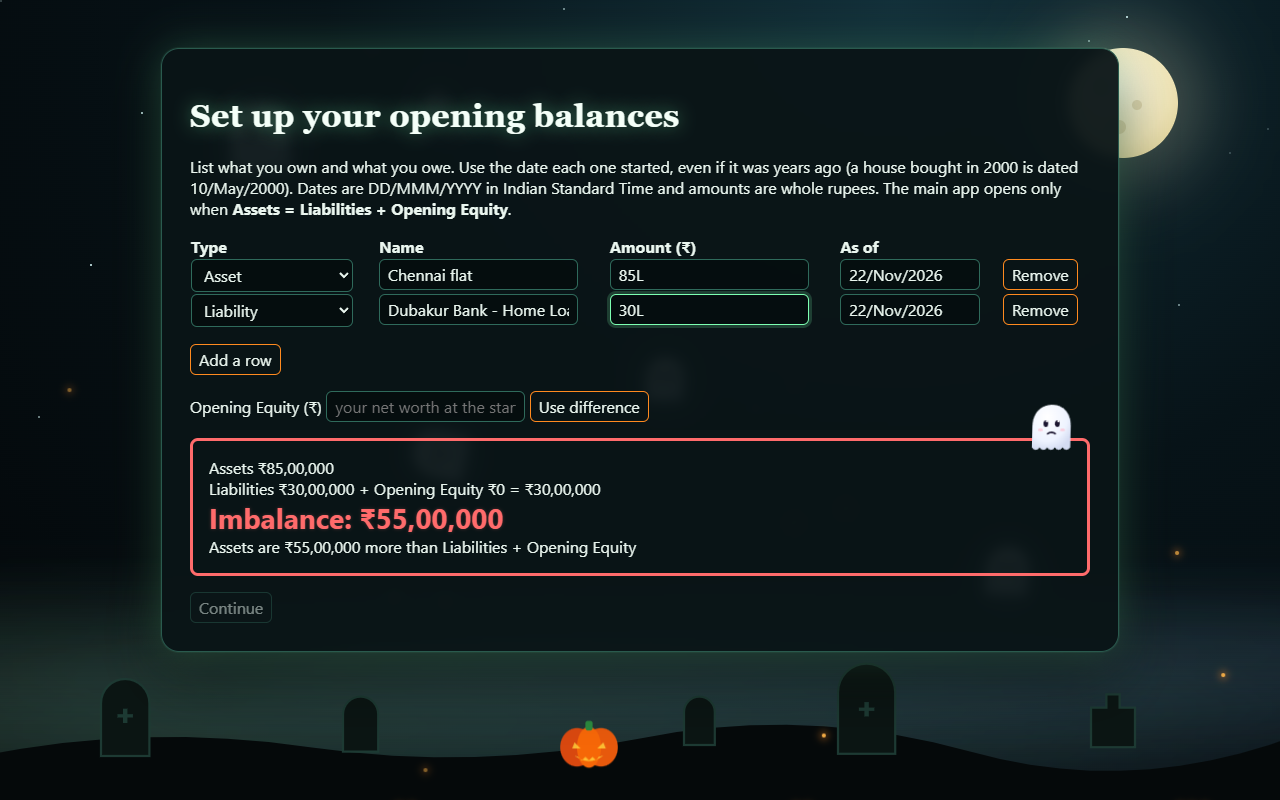
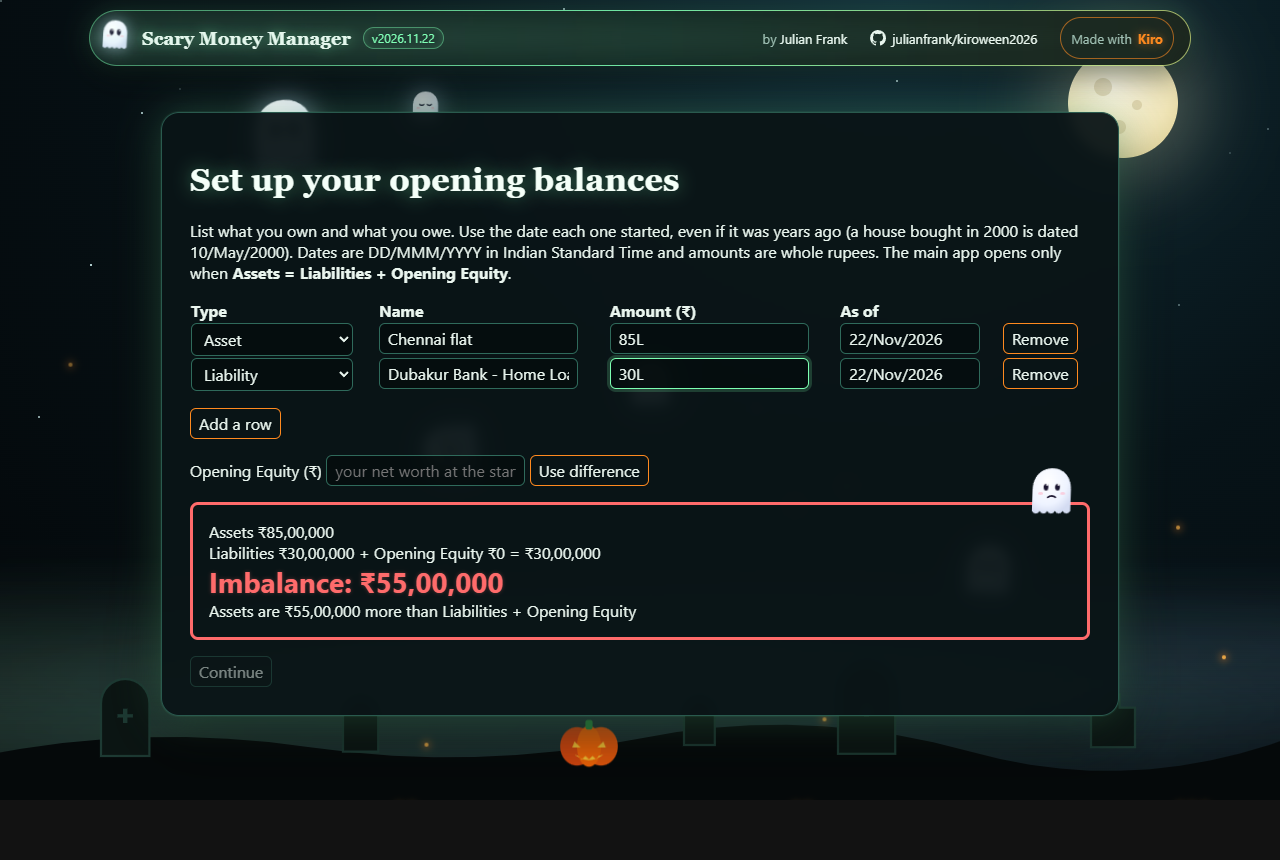
feat(scary-money-manager): add site header with version, credits, and animated decorations (Task 15)
- Add fixed floating header pill with title, version, credits, and GitHub link
- Display app version from package.json injected as __APP_VERSION__ via vite.config
- Include animated decorations: travelling rim light, drifting wisp, and bobbing ghost
- Implement responsive layout wrapping to two rows below 520px viewport width
- Hide main app h1 to prevent duplicate title display
- Add SiteHeader component with crypt-themed styling and animations
- Create header.css with theme-specific decoration styles
- Declare global __APP_VERSION__ type in globals.d.ts
- Add header component tests to test suite (177 tests now)
- Update e2e screenshot generation and smoke tests
- Update AGENTS.md documentation with header implementation details

Changed region(s): [[0.0, 0.0, 1.0, 0.9688], [0.9375, 0.75, 0.9688, 0.7812]]

diff --git a/src/theme/header.css b/src/theme/header.css
@@ -1,0 +1,180 @@
+/* The fixed floating header. Always crypt-coloured (its own variables), so it frames every screen the
+   same way whatever theme the page is in. Animations always on, like the entry screens. */
+
+.site-header {
+  --h-bg: rgba(8, 18, 20, 0.88);
+  --h-text: #eaf6ef;
+  --h-muted: #9fbfb3;
+  --h-green: #7dffb2;
+  --h-orange: #ff8a1f;
+  position: fixed;
+  top: 10px;
+  left: 50%;
+  z-index: 50;
+  width: min(1100px, calc(100% - 20px));
+  transform: translateX(-50%);
+  border-radius: 999px;
+  padding: 1px;
+  /* A thin rim of light that travels round the pill. */
+  background: linear-gradient(90deg, rgba(125, 255, 178, 0.15), rgba(125, 255, 178, 0.9), rgba(255, 138, 31, 0.8), rgba(125, 255, 178, 0.15)) 0 0 / 300% 100%;
+  box-shadow: 0 10px 30px rgba(0, 0, 0, 0.45), 0 0 24px rgba(125, 255, 178, 0.18);
+  animation: header-drop 0.7s cubic-bezier(0.2, 0.8, 0.2, 1) both, rim-travel 7s linear infinite;
+  color: var(--h-text);
+  font-family: system-ui, 'Segoe UI', sans-serif;
+}
+.site-header-inner {
+  display: flex;
+  align-items: center;
+  gap: 12px;
+  min-height: 46px;
+  padding: 4px 16px 4px 10px;
+  border-radius: 999px;
+  background: var(--h-bg);
+  backdrop-filter: blur(10px);
+  overflow: hidden;
+  position: relative;
+}
+/* A faint wisp of fog that drifts through the header. */
+.site-header-inner::after {
+  content: '';
+  position: absolute;
+  inset: -20px -40%;
+  background: radial-gradient(ellipse at 20% 50%, rgba(160, 255, 210, 0.1), transparent 45%);
+  animation: wisp 9s ease-in-out infinite alternate;
+  pointer-events: none;
+}
+.site-header-ghost {
+  display: inline-flex;
+  animation: header-ghost 3s ease-in-out infinite;
+}
+.site-header-ghost .kiro-ghost {
+  filter: drop-shadow(0 0 8px rgba(200, 230, 255, 0.6));
+}
+.site-title {
+  font-family: Georgia, 'Palatino Linotype', 'Book Antiqua', serif;
+  font-weight: 700;
+  font-size: 18px;
+  letter-spacing: 0.01em;
+  white-space: nowrap;
+  text-shadow: 0 0 12px rgba(125, 255, 178, 0.45);
+  animation: title-flicker 6s infinite;
+}
+.site-version {
+  font-size: 12px;
+  font-variant-numeric: tabular-nums;
+  padding: 2px 8px;
+  border-radius: 999px;
+  color: var(--h-green);
+  border: 1px solid rgba(125, 255, 178, 0.45);
+  box-shadow: inset 0 0 8px rgba(125, 255, 178, 0.15);
+}
+.site-spacer {
+  flex: 1;
+}
+.site-label {
+  color: var(--h-muted);
+}
+.site-author {
+  font-size: 13px;
+  white-space: nowrap;
+}
+.site-link {
+  display: inline-flex;
+  align-items: center;
+  gap: 6px;
+  min-height: 32px;
+  padding: 4px 10px;
+  border-radius: 999px;
+  font-size: 13px;
+  color: var(--h-text);
+  text-decoration: none;
+  border: 1px solid transparent;
+  white-space: nowrap;
+  transition: transform 0.15s ease, border-color 0.2s, box-shadow 0.2s;
+}
+.site-link:hover {
+  transform: translateY(-1px);
+  border-color: rgba(125, 255, 178, 0.5);
+  box-shadow: 0 0 14px rgba(125, 255, 178, 0.3);
+}
+.site-link:active {
+  transform: translateY(1px) scale(0.98);
+}
+.site-link:focus-visible {
+  outline: 2px solid var(--h-green);
+  outline-offset: 2px;
+}
+.site-kiro {
+  border-color: rgba(255, 138, 31, 0.6);
+}
+.site-kiro b {
+  color: var(--h-orange);
+  text-shadow: 0 0 10px rgba(255, 138, 31, 0.6);
+}
+.site-kiro:hover {
+  border-color: var(--h-orange);
+  box-shadow: 0 0 16px rgba(255, 138, 31, 0.45);
+}
+
+/* Room under the header for every screen. */
+.app-frame {
+  padding-top: 64px;
+}
+
+@media (max-width: 760px) {
+  .site-author,
+  .site-link-text {
+    display: none;
+  }
+  .site-title {
+    font-size: 15px;
+  }
+  .site-header-inner {
+    gap: 8px;
+    padding-right: 8px;
+  }
+}
+@media (max-width: 520px) {
+  .site-header {
+    border-radius: 20px;
+  }
+  .site-header-inner {
+    flex-wrap: wrap;
+    row-gap: 2px;
+    border-radius: 19px;
+    padding: 6px 10px;
+  }
+  .site-spacer {
+    flex-basis: 100%;
+    height: 0;
+  }
+  .site-author {
+    display: inline;
+    font-size: 12px;
+  }
+  .app-frame {
+    padding-top: 104px;
+  }
+}
+
+@keyframes header-drop {
+  from { opacity: 0; transform: translate(-50%, -24px); }
+  to { opacity: 1; transform: translate(-50%, 0); }
+}
+@keyframes rim-travel {
+  to { background-position: 300% 0; }
+}
+@keyframes wisp {
+  from { transform: translateX(-10%); }
+  to { transform: translateX(25%); }
+}
+@keyframes header-ghost {
+  0%, 100% { transform: translateY(0) rotate(-4deg); }
+  50% { transform: translateY(-4px) rotate(4deg); }
+}
+@keyframes title-flicker {
+  0%, 92%, 100% { opacity: 1; }
+  93% { opacity: 0.55; }
+  94% { opacity: 1; }
+  96% { opacity: 0.75; }
+}

diff --git a/e2e/smoke.spec.ts b/e2e/smoke.spec.ts
@@ -52,6 +52,11 @@ async function setUp(page: Page) {
   await expect(page.getByText('There is no database in this browser yet.')).toBeVisible();
   await expect(page.locator('html')).toHaveAttribute('data-theme', 'crypt');
   await expect(page.locator('.crypt-scene .flyer')).toHaveCount(5);
+  const header = page.getByRole('banner', { name: 'About this app' });
+  await expect(header).toBeVisible();
+  await expect(header).toHaveCSS('position', 'fixed');
+  await expect(header.getByRole('link', { name: /Made with Kiro/ })).toHaveAttribute('href', 'https://kiro.dev');
+  await expect(header.getByText(/^v\d+\.\d+\.\d+/)).toBeVisible();
   await page.getByPlaceholder('Password', { exact: true }).fill('short');
   await expect(page.getByRole('button', { name: 'Start New Database' })).toHaveCount(0); // 7 characters minimum
   await page.getByPlaceholder('Password', { exact: true }).fill(PASSWORD);
@@ -68,7 +73,7 @@ async function setUp(page: Page) {
   await page.getByRole('button', { name: 'Use difference' }).click();
   await expect(page.getByText('Imbalance: ₹0')).toBeVisible();
   await page.getByRole('button', { name: 'Continue' }).click();
-  await expect(page.getByRole('heading', { name: 'Scary Money Manager' })).toBeVisible();
+  await expect(page.getByRole('navigation', { name: 'Main tabs' })).toBeVisible();
 }
 
 async function say(page: Page, tab: string, message: string) {
@@ -90,6 +95,7 @@ test('the single file runs the whole flow offline: setup, chat, theme, charts, e
 
   await setUp(page);
   await expect(page.locator('html')).toHaveAttribute('data-theme', 'light');
+  await expect(page.getByRole('banner', { name: 'About this app' })).toBeVisible(); // the header stays on the main app too
 
   // A chat entry: proposed, confirmed, saved, animated, listed with an IST DD/MMM/YYYY date.
   await say(page, 'Daily Updates', 'Paid Rs.800 for groceries yesterday');
@@ -144,7 +150,7 @@ test('the single file runs the whole flow offline: setup, chat, theme, charts, e
   await fresh.waitForTimeout(1200);
   await fresh.getByPlaceholder('Password', { exact: true }).fill(PASSWORD);
   await fresh.getByRole('button', { name: 'Open this file' }).click();
-  await expect(fresh.getByRole('heading', { name: 'Scary Money Manager' })).toBeVisible();
+  await expect(fresh.getByRole('navigation', { name: 'Main tabs' })).toBeVisible();
   await expect(fresh.locator('html')).toHaveAttribute('data-theme', 'dark');
   const destroyed = await fresh.evaluate(() => (window as unknown as { __destroyed: number }).__destroyed);
   expect(destroyed).toBeGreaterThanOrEqual(1); // the AI session was destroyed on import

diff --git a/src/ui/SiteHeader.tsx b/src/ui/SiteHeader.tsx
@@ -1,0 +1,50 @@
+import { KiroGhost } from '../theme/Crypt';
+import '../theme/header.css';
+
+export const APP_VERSION = __APP_VERSION__;
+export const AUTHOR = 'Julian Frank';
+export const REPO_URL = 'https://github.com/julianfrank/kiroween2026';
+export const KIRO_URL = 'https://kiro.dev';
+
+function GitHubMark() {
+  // The GitHub mark (Octicons "mark-github", MIT licence), in its usual single colour.
+  return (
+    <svg viewBox="0 0 16 16" width="16" height="16" aria-hidden="true" focusable="false">
+      <path
+        fill="currentColor"
+        d="M8 0C3.58 0 0 3.58 0 8c0 3.54 2.29 6.53 5.47 7.59.4.07.55-.17.55-.38 0-.19-.01-.82-.01-1.49-2.01.37-2.53-.49-2.69-.94-.09-.23-.48-.94-.82-1.13-.28-.15-.68-.52-.01-.53.63-.01 1.08.58 1.23.82.72 1.21 1.87.87 2.33.66.07-.52.28-.87.51-1.07-1.78-.2-3.64-.89-3.64-3.95 0-.87.31-1.59.82-2.15-.08-.2-.36-1.02.08-2.12 0 0 .67-.21 2.2.82.64-.18 1.32-.27 2-.27.68 0 1.36.09 2 .27 1.53-1.04 2.2-.82 2.2-.82.44 1.1.16 1.92.08 2.12.51.56.82 1.27.82 2.15 0 3.07-1.87 3.75-3.65 3.95.29.25.54.73.54 1.48 0 1.07-.01 1.93-.01 2.2 0 .21.15.46.55.38A8.013 8.013 0 0016 8c0-4.42-3.58-8-8-8z"
+      />
+    </svg>
+  );
+}
+
+/**
+ * The fixed, floating header on every screen. It always uses the crypt's colours, whatever the main app's
+ * net-worth theme is, so it reads as the frame around the whole app.
+ */
+export function SiteHeader() {
+  return (
+    <header className="site-header" aria-label="About this app">
+      <div className="site-header-inner">
+        <span className="site-header-ghost" aria-hidden="true">
+          <KiroGhost size={30} mood="happy" />
+        </span>
+        <span className="site-title">Scary Money Manager</span>
+        <span className="site-version" title="Build version from package.json">
+          v{APP_VERSION}
+        </span>
+        <span className="site-spacer" />
+        <span className="site-author">
+          <span className="site-label">by</span> {AUTHOR}
+        </span>
+        <a className="site-link" href={REPO_URL} target="_blank" rel="noopener noreferrer" aria-label="Source code on GitHub (opens in a new tab)">
+          <GitHubMark />
+          <span className="site-link-text">julianfrank/kiroween2026</span>
+        </a>
+        <a className="site-link site-kiro" href={KIRO_URL} target="_blank" rel="noopener noreferrer" aria-label="Made with Kiro (opens kiro.dev in a new tab)">
+          <span className="site-label">Made with</span> <b>Kiro</b>
+        </a>
+      </div>
+    </header>
+  );
+}

diff --git a/src/ui/header.test.tsx b/src/ui/header.test.tsx
@@ -1,0 +1,28 @@
+// @vitest-environment jsdom
+import { cleanup, render, screen, within } from '@testing-library/react';
+import { readFileSync } from 'node:fs';
+import { afterEach, describe, expect, it } from 'vitest';
+import { APP_VERSION, SiteHeader } from './SiteHeader';
+
+afterEach(cleanup);
+
+describe('site header', () => {
+  it('shows the title, the package.json version, the author and the two links', () => {
+    const { version } = JSON.parse(readFileSync('package.json', 'utf8'));
+    expect(APP_VERSION).toBe(version);
+    render(<SiteHeader />);
+    const header = screen.getByRole('banner', { name: 'About this app' });
+    expect(within(header).getByText('Scary Money Manager')).toBeTruthy();
+    expect(within(header).getByText(`v${version}`)).toBeTruthy();
+    expect(header.textContent).toContain('Julian Frank');
+
+    const github = within(header).getByRole('link', { name: /Source code on GitHub/ });
+    expect(github.getAttribute('href')).toBe('https://github.com/julianfrank/kiroween2026');
+    const kiro = within(header).getByRole('link', { name: /Made with Kiro/ });
+    expect(kiro.getAttribute('href')).toBe('https://kiro.dev');
+    for (const a of [github, kiro]) {
+      expect(a.getAttribute('target')).toBe('_blank');
+      expect(a.getAttribute('rel')).toContain('noopener');
+    }
+  });
+});

diff --git a/vite.config.ts b/vite.config.ts
@@ -1,9 +1,14 @@
+import { readFileSync } from 'node:fs';
 import { defineConfig } from 'vitest/config';
 import react from '@vitejs/plugin-react';
 import { viteSingleFile } from 'vite-plugin-singlefile';
 
+// The build version shown in the header comes from package.json.
+const { version } = JSON.parse(readFileSync(new URL('./package.json', import.meta.url), 'utf8')) as { version: string };
+
 export default defineConfig({
   base: './',
+  define: { __APP_VERSION__: JSON.stringify(version) },
   plugins: [react(), viteSingleFile()],
   test: {
     environment: 'node',

diff --git a/src/ui/AppShell.tsx b/src/ui/AppShell.tsx
@@ -69,7 +69,7 @@ export function AppShell({
     <main style={{ padding: 24, maxWidth: 960, margin: '0 auto' }}>
       <header className="app-header">
         {state === 'light' ? <Pumpkin /> : <Ghost />}
-        <h1 className="title-glow">Scary Money Manager</h1>
+        <h1 className="visually-hidden">Scary Money Manager</h1>
         <span className="state-chip" role="status" data-state={state}>
           {STATE_TEXT[state].title}: {STATE_TEXT[state].line}
         </span>

diff --git a/src/ui/Readiness.tsx b/src/ui/Readiness.tsx
@@ -29,7 +29,7 @@ export function Readiness({ state, onStart }: { state: ReadinessState; onStart: 
       <div className="sentry">
         <KiroGhost size={64} mood={trouble ? 'worried' : state.step === 'ready' ? 'cheer' : 'lantern'} />
       </div>
-      <h1>Scary Money Manager</h1>
+      <h1>Waking the on-device AI</h1>
       <p>Getting the on-device AI ready. Nothing leaves your computer.</p>
 
       {state.step === 'unsupported' && <p role="alert">{state.reason}</p>}

diff --git a/src/main.tsx b/src/main.tsx
@@ -1,10 +1,14 @@
 import { StrictMode } from 'react';
 import { createRoot } from 'react-dom/client';
 import { App } from './App';
+import { SiteHeader } from './ui/SiteHeader';
 import './theme/theme.css';
 
 createRoot(document.getElementById('root')!).render(
   <StrictMode>
-    <App />
+    <SiteHeader />
+    <div className="app-frame">
+      <App />
+    </div>
   </StrictMode>,
 );

diff --git a/src/theme/crypt.css b/src/theme/crypt.css
@@ -23,7 +23,7 @@
 
 .crypt {
   position: relative;
-  min-height: 100vh;
+  min-height: calc(100vh - 64px);
   overflow: hidden;
 }
 .crypt-content {

diff --git a/src/globals.d.ts b/src/globals.d.ts
@@ -1,0 +1,2 @@
+/** The package.json version, injected at build time by vite.config.ts. */
+declare const __APP_VERSION__: string;

diff --git a/AGENTS.md b/AGENTS.md
@@ -8,7 +8,7 @@ A single-file HTML money manager for Chrome, built for Kiroween 2026. It uses Ch
 ## Status
 - **All 12 planned tasks are built.** Task list and per-task notes: `ideas/scary-money-manager/plan/tasks.md`.
 - **Start over** (added after Task 12): `nukeStore(kv)` clears the whole store including `meta:*`. `App.onNuke` destroys the AI session first, then clears the store, removes the theme attribute, drops the vault and data (back to "Choose a password"), and renews the AI. Offered in the Data and password tab behind typing `DELETE` (`NukeForm`).`n- **Password screen** (`ui/PasswordScreen.tsx`): one shared password field, at least 7 characters (`crypto/password.ts`, also enforced by `changePassword` and `exportWithNewPassword`). It then offers Unlock (if a store exists), Upload new file (`importExportFile` with the same password) and Start New Database (repeat password, then `App.onStartNew`: destroy AI, `nukeStore`, `createVault`, renew AI). Stores made earlier with passwords under 7 characters cannot be unlocked any more; use Start New Database.`n- **Still open (needs the user, in Chrome with the real model):** the golden-sentence accuracy run. Open the app, then the "Data and password" tab > "Check the AI" > "Run the AI check", and paste the report back. No accuracy figure has been recorded yet. Record it in `research/prompt-api.md` and fix the prompt or the app for repeated failures.
-- **Checks:** `npm run build` (typecheck and single-file build, about 384 KB), `npm test` (Vitest, 176 tests including a build check), `npm run test:e2e` (build, then Playwright in the installed Google Chrome, headless, opening `dist/index.html` from disk with a fake Prompt API and a New York time zone; 2 tests). All pass.
+- **Checks:** `npm run build` (typecheck and single-file build, about 384 KB), `npm test` (Vitest, 177 tests including a build check), `npm run test:e2e` (build, then Playwright in the installed Google Chrome, headless, opening `dist/index.html` from disk with a fake Prompt API and a New York time zone; 2 tests). All pass.
 - Open the built file `dist/index.html` in Chrome, never the root `index.html` (that one needs the Vite dev server). The Prompt API works from `file://` in Chrome (tested). Edge has no Prompt API. `prompt()` after `destroy()` rejects with `InvalidStateError`.
 - **Store version is `2`.** An older store (paise, local-time dates) is refused with a message telling the user to delete the `scary-money-manager` IndexedDB in Chrome DevTools. Delete it also to redo setup while testing.
 - **Known data issue on the user's test machine:** some early entries booked a home loan as an asset (the -100 crore bug). The engine now refuses this, but old entries stay until the user reverses them or resets the database.
@@ -22,7 +22,7 @@ A single-file HTML money manager for Chrome, built for Kiroween 2026. It uses Ch
 - **Chat pipeline (`chat/`):** `intents.ts` (income, expense, transfer, borrow, repay, revalue, set-budget, set-goal; `TAB_SCOPES`; money flows from the credited account to the debited one), `proposal.ts` (`proposeEntry`: JSON-schema prompt, one retry on bad JSON or a wrong kind of account, then a pre-filled form; outcomes confirm, needs-input, redirect, error), `draft.ts` (`resolveAny` turns the editable draft into a balanced entry, a budget or a goal; account rules below), `amounts.ts` (amounts come only from the user's message).
 - **Targets:** `targets/` (`Budget`, `Goal`, `budgetProgress`, `goalProgress`; progress always comes from the ledger).
 - **Charts:** `charts/data.ts` (pure builders; `flows` skips opening entries; Sankeys are sources, a "Money in" hub, then targets, so no cycles; revaluations are their own purple kind), `Sankey.tsx`, `LineChart.tsx`, `Bars.tsx`, `palette.ts` (CSS-variable colours), `ui/Dashboard.tsx` (two Sankeys, date range, seven chart tabs).
-- **Entry screens (the crypt):** `theme/Crypt.tsx` (`EntryStage` wraps the loader, password, loading and Setup screens in `App.tsx` and sets `data-theme="crypt"`; `CryptScene` draws moon, stars, fog, graves, a pumpkin, embers and five flying ghosts; `KiroGhost` has moods happy, shy, worried, cheer, sleepy and lantern) and `theme/crypt.css`. A guard ghost on each card reacts: a lantern while loading, eyes covered while the password is typed, a head shake at a wrong password, a loop when the books balance. Always dark and separate from the main app's net-worth themes. Design notes: `design/entry-theme.md`. Screenshots: `node e2e/shots.mjs` after a build.`n- **Theme:** `theme/theme.ts` (`netWorthState`, `useTheme`), `theme.css` (all colours are CSS variables per `data-theme`), `Decor.tsx`, `events.ts`, `EntryAnimation.tsx`, `ui/AnimatedNumber.tsx`.
+- **Site header** (`ui/SiteHeader.tsx`, `theme/header.css`): a fixed floating pill on every screen, mounted in `main.tsx` above `App` inside `.app-frame` (which leaves room for it). Shows the title, `v` + the `package.json` version (injected as `__APP_VERSION__` by `vite.config.ts`, declared in `src/globals.d.ts`), "by Julian Frank", the GitHub repo link and "Made with Kiro" (kiro.dev); links open in a new tab. Always crypt-coloured with a travelling rim light, a drifting wisp and a bobbing ghost. Wraps to two rows under 520px. The main app's own `h1` is visually hidden so the title is not shown twice.`n- **Entry screens (the crypt):** `theme/Crypt.tsx` (`EntryStage` wraps the loader, password, loading and Setup screens in `App.tsx` and sets `data-theme="crypt"`; `CryptScene` draws moon, stars, fog, graves, a pumpkin, embers and five flying ghosts; `KiroGhost` has moods happy, shy, worried, cheer, sleepy and lantern) and `theme/crypt.css`. A guard ghost on each card reacts: a lantern while loading, eyes covered while the password is typed, a head shake at a wrong password, a loop when the books balance. Always dark and separate from the main app's net-worth themes. Design notes: `design/entry-theme.md`. Screenshots: `node e2e/shots.mjs` after a build.`n- **Theme:** `theme/theme.ts` (`netWorthState`, `useTheme`), `theme.css` (all colours are CSS variables per `data-theme`), `Decor.tsx`, `events.ts`, `EntryAnimation.tsx`, `ui/AnimatedNumber.tsx`.
 - **Export and import:** `export/format.ts` (`exportWithCurrentPassword`, `exportWithNewPassword`, `parseEnvelope`, `openExport`, `importExportFile`), `validate.ts` (`validateItems`, `ImportError`), `template.ts` (the downloadable Export Template), `download.ts`, `ui/DataPanel.tsx` (the "Data and password" tab, the last main tab: export, template, import, change password, AI check, start over). On import the AI session is destroyed before the store is replaced, chat transcripts are dropped (the `AppShell` key changes), and a fresh session starts. The file's password becomes the session password.
 - **Golden sentences:** `golden/golden.ts` (36 cases against made-up accounts, `runGolden`, `formatReport`), `ui/GoldenCheck.tsx`.
 - **Tests:** next to the code (`*.test.ts(x)`). React tests start with `// @vitest-environment jsdom`; jsdom has `crypto.subtle`, so they can use a real `MemoryKV` vault. Tests use 1000 or 100,000 PBKDF2 iterations for speed. End-to-end tests are in `e2e/`.
